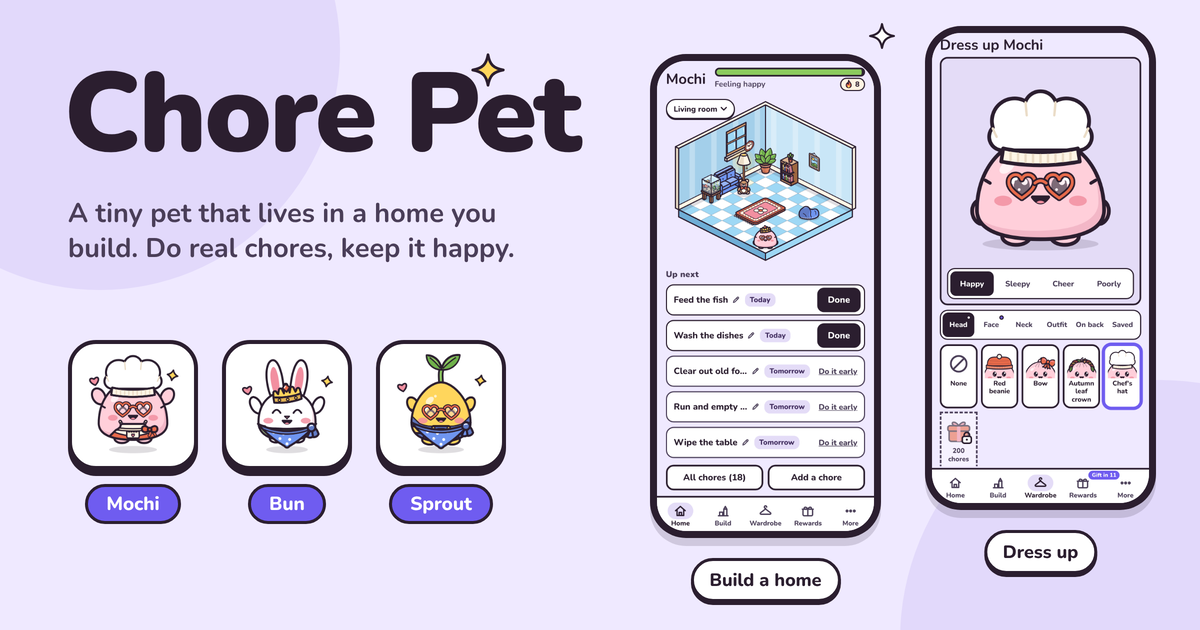
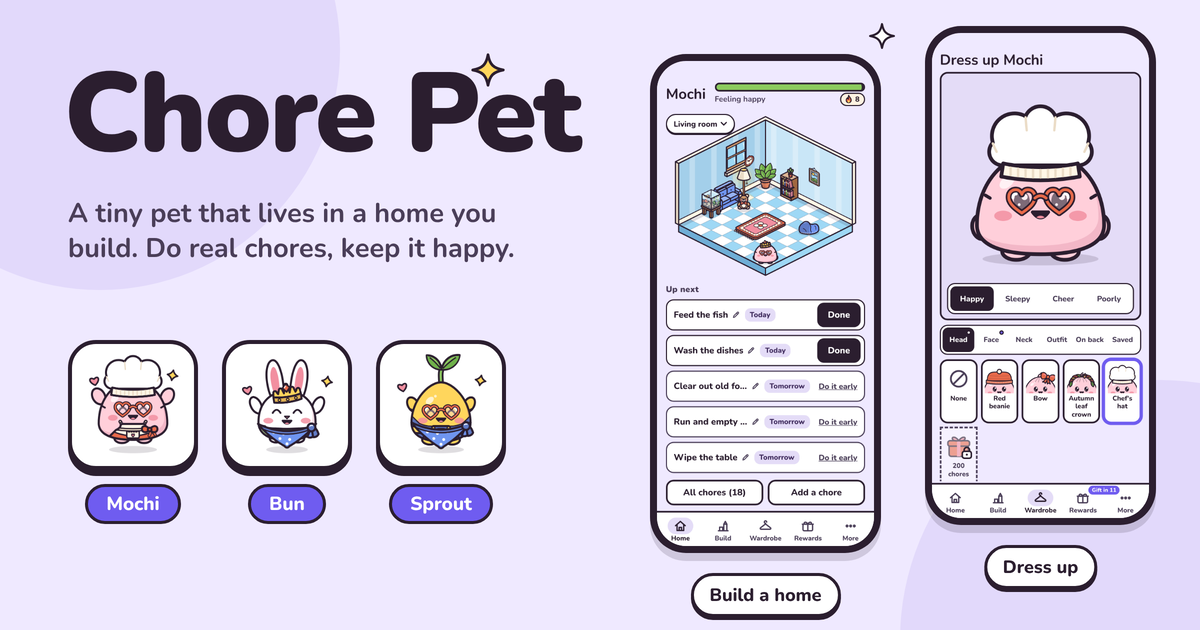
Showcase media: 77 s demo, showcase image and social card; link previews for the live site
- Demo video re-scripted on a captioned stage (skip, streak, rooms, catch-up,
  tier-two rewards, wardrobe, share card), recorded by the showcase agent.
- npm run showcase renders the 1600x900 showcase image and 1200x630 social card
  from the app's own screens and art; phone frames get a status-bar inset.
- index.html carries Open Graph and Twitter card tags; the Pages deploy copies
  the card and showcase image next to the app.

Claude-Session: https://claude.ai/code/session_016uMx24jJ69bwzCytcPoPAT

Changed region(s): [[0.5242, 0.0905, 0.74, 0.9952], [0.7708, 0.0603, 0.9867, 0.9651]]

diff --git a/index.html b/index.html
@@ -12,6 +12,16 @@
     <meta name="apple-mobile-web-app-status-bar-style" content="default" />
     <meta name="apple-mobile-web-app-title" content="Chore Pet" />
     <title>Chore Pet</title>
+    <meta name="description" content="A tiny pet that lives in a home you build. Do real chores, keep it happy." />
+    <!-- Link previews: the social card is copied next to the app at deploy (.github/workflows/pages.yml). -->
+    <meta property="og:type" content="website" />
+    <meta property="og:title" content="Chore Pet" />
+    <meta property="og:description" content="A tiny pet that lives in a home you build. Do real chores, keep it happy." />
+    <meta property="og:url" content="https://robertg761.github.io/chore-pet/" />
+    <meta property="og:image" content="https://robertg761.github.io/chore-pet/chore-pet-card.png" />
+    <meta property="og:image:width" content="1200" />
+    <meta property="og:image:height" content="630" />
+    <meta name="twitter:card" content="summary_large_image" />
   </head>
   <body>
     <div id="root"></div>
